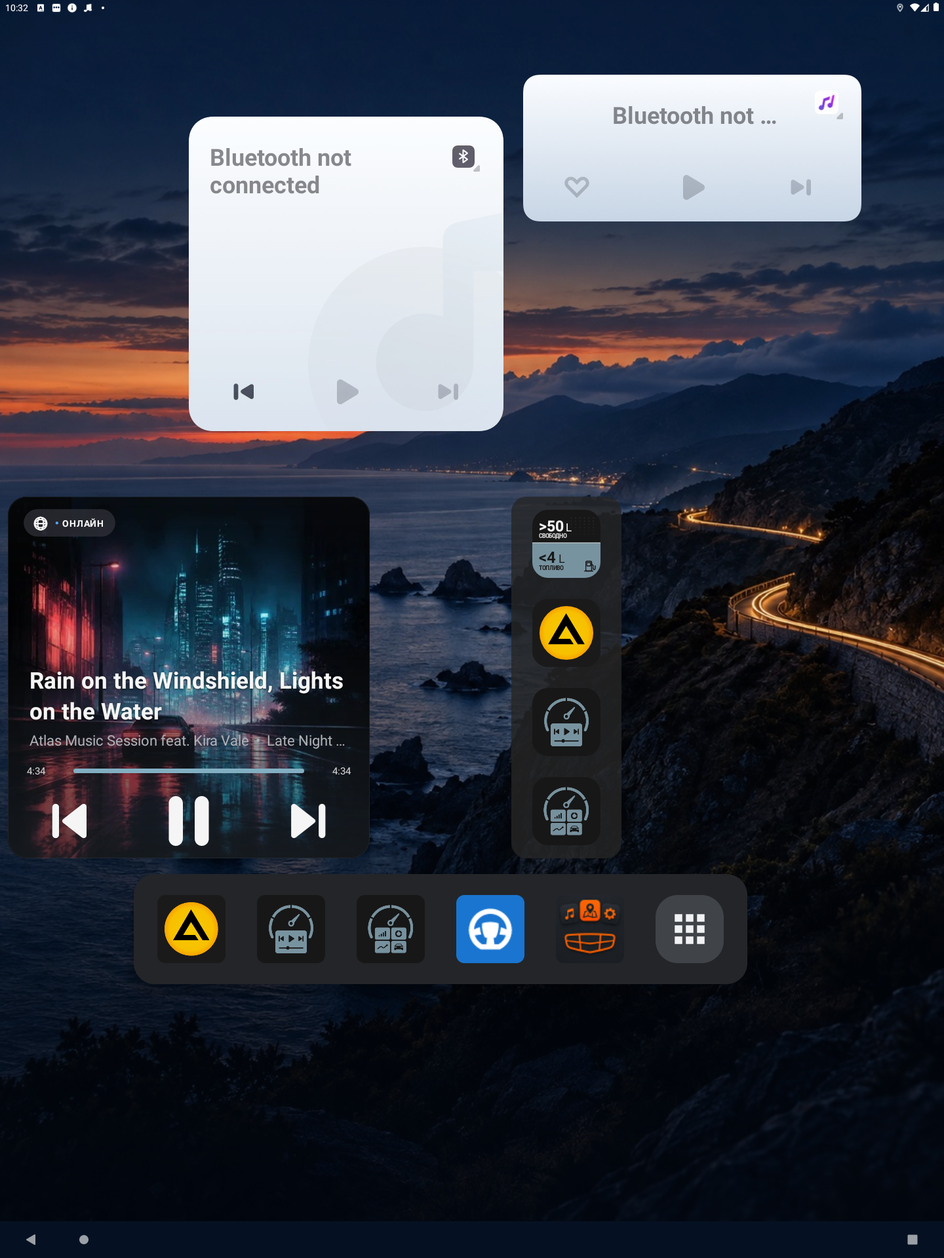
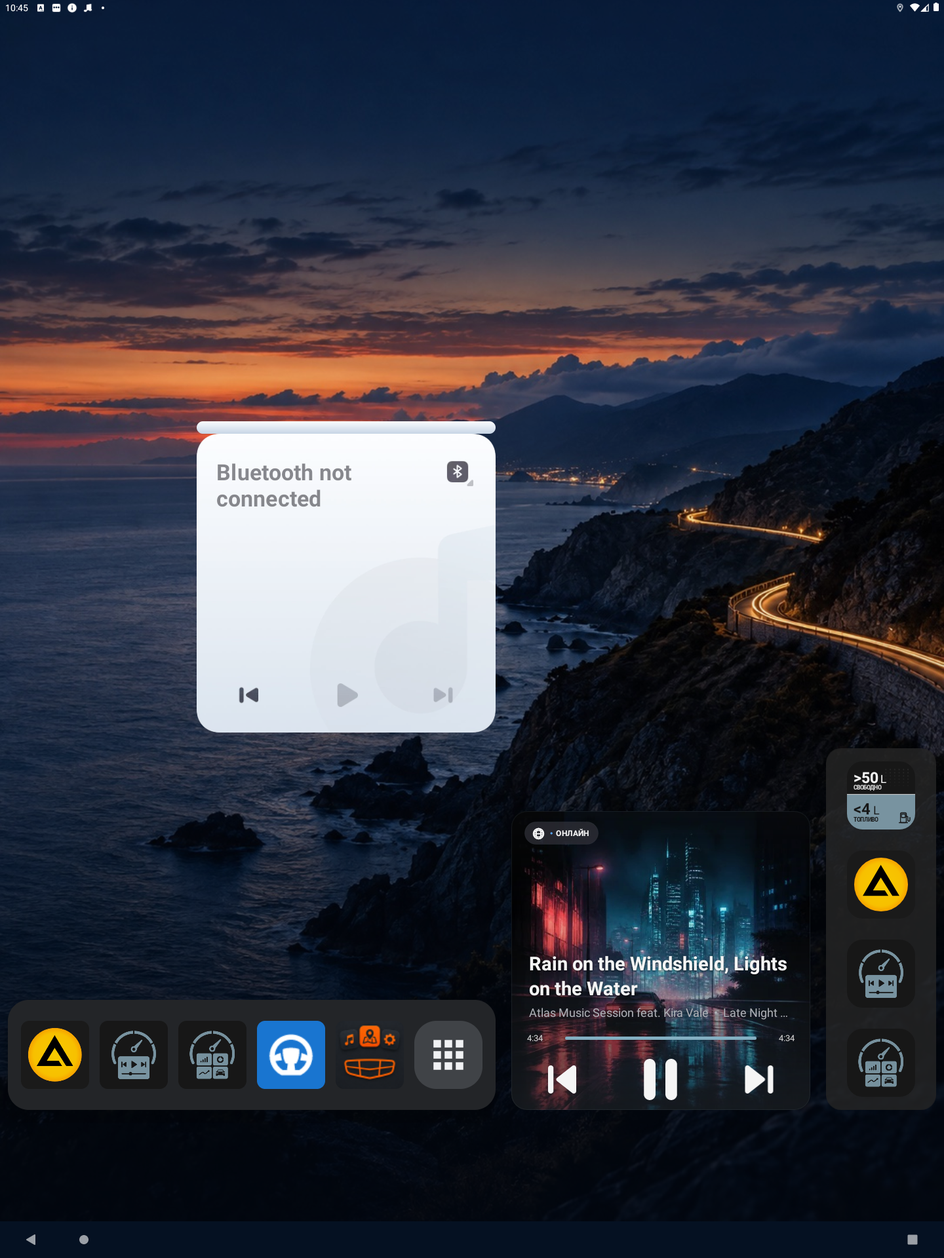
Scale fixed-size OEM widgets into their cells

diff --git a/app/src/main/java/com/mmwtl/atlaslauncher/HomeActivity.java b/app/src/main/java/com/mmwtl/atlaslauncher/HomeActivity.java
@@ -71,9 +71,11 @@ import org.json.JSONObject;
 import java.text.Collator;
 import java.util.ArrayList;
 import java.util.Collections;
+import java.util.HashMap;
 import java.util.Iterator;
 import java.util.List;
 import java.util.Locale;
+import java.util.Map;
 import java.util.concurrent.ExecutorService;
 import java.util.concurrent.Executors;
 import java.util.function.Consumer;
@@ -129,6 +131,7 @@ public final class HomeActivity extends Activity {
     private final List<AppEntry> apps = new ArrayList<>();
     private final List<String> favorites = new ArrayList<>();
     private final List<WidgetPlacement> widgets = new ArrayList<>();
+    private final Map<ComponentName, Point> fixedLayouts = new HashMap<>();
     private AppWidgetManager widgetManager;
     private AppWidgetHost widgetHost;
     private LinearLayout favoriteRow;
@@ -151,6 +154,7 @@ public final class HomeActivity extends Activity {
     private final Runnable renderWidgets = this::showWidgets;
     private final BroadcastReceiver packageReceiver = new BroadcastReceiver() {
         @Override public void onReceive(Context context, Intent intent) {
+            fixedLayouts.clear();
             loadApps();
             showFavorites();
             // An uninstalled provider's widget ID is gone; drop its stale view and placement.
@@ -162,7 +166,11 @@ public final class HomeActivity extends Activity {
     @Override public void onCreate(Bundle state) {
         super.onCreate(state);
         widgetManager = AppWidgetManager.getInstance(this);
-        widgetHost = new AppWidgetHost(this, HOST_ID);
+        widgetHost = new AppWidgetHost(this, HOST_ID) {
+            @Override protected AppWidgetHostView onCreateView(Context context, int id, AppWidgetProviderInfo info) {
+                return new FittedWidgetView(context);
+            }
+        };
         if (state != null) {
             editingWidgets = state.getBoolean("editingWidgets");
             pendingWidgetId = state.getInt("pendingWidgetId", AppWidgetManager.INVALID_APPWIDGET_ID);
@@ -1138,7 +1146,7 @@ public final class HomeActivity extends Activity {
     private void chooseWidget() {
         PackageManager pm = getPackageManager();
         List<AppWidgetProviderInfo> providers = widgetManager.getInstalledProviders();
-        providers.forEach(this::fitMediaWidget);
+        providers.forEach(this::fitFixedWidget);
         Collator collator = Collator.getInstance(Locale.getDefault());
         Collections.sort(providers, (a, b) -> collator.compare(String.valueOf(a.loadLabel(pm)), String.valueOf(b.loadLabel(pm))));
         LinearLayout content = new LinearLayout(this);
@@ -1434,7 +1442,7 @@ public final class HomeActivity extends Activity {
 
     private void finishAddingWidget() {
         if (pendingWidgetId == AppWidgetManager.INVALID_APPWIDGET_ID) return;
-        AppWidgetProviderInfo info = fitMediaWidget(widgetManager.getAppWidgetInfo(pendingWidgetId));
+        AppWidgetProviderInfo info = fitFixedWidget(widgetManager.getAppWidgetInfo(pendingWidgetId));
         if (info == null) { cancelPendingWidget(); return; }
         WidgetGrid grid = widgetGrid();
         if (grid == null) { widgetRow.post(this::finishAddingWidget); return; }
@@ -1494,7 +1502,7 @@ public final class HomeActivity extends Activity {
             WidgetPlacement placement = iterator.next();
             boolean clockWidget = placement.id == CLOCK_WIDGET_ID;
             boolean dockWidget = placement.id == DOCK_WIDGET_ID;
-            AppWidgetProviderInfo info = clockWidget || dockWidget ? null : fitMediaWidget(widgetManager.getAppWidgetInfo(placement.id));
+            AppWidgetProviderInfo info = clockWidget || dockWidget ? null : fitFixedWidget(widgetManager.getAppWidgetInfo(placement.id));
             if (!clockWidget && !dockWidget && info == null) {
                 widgetHost.deleteAppWidgetId(placement.id);
                 iterator.remove();
@@ -1560,7 +1568,6 @@ public final class HomeActivity extends Activity {
             } else {
                 AppWidgetHostView widgetView = widgetHost.createView(this, placement.id, info);
                 widgetView.setAppWidget(placement.id, info);
-                if (isMediaWidget(info)) widgetView.setPadding(0, 0, 0, 0);
                 hostView = widgetView;
             }
             FrameLayout container = isMediaWidget(info)
@@ -1569,9 +1576,7 @@ public final class HomeActivity extends Activity {
                     })
                     : new FrameLayout(this);
             hostView.setOnLongClickListener(v -> { setEditingWidgets(true); return true; });
-            FrameLayout.LayoutParams hostParams = isMediaWidget(info)
-                    ? new FrameLayout.LayoutParams(info.minWidth, info.minHeight, Gravity.CENTER)
-                    : new FrameLayout.LayoutParams(-1, -1);
+            FrameLayout.LayoutParams hostParams = new FrameLayout.LayoutParams(-1, -1);
             if (dockWidget) {
                 // Inset the dock like AppWidgetHostView insets regular widgets.
                 Rect inset = dockInset();
@@ -1600,20 +1605,29 @@ public final class HomeActivity extends Activity {
     }
 
     /**
-     * The OneOS media widgets are drawn for Launcher3 without host padding, and their layouts have a fixed
-     * pixel size larger than the declared minimum; use that size so the rounded card is never cut.
+     * OneOS widgets (media, phone, gallery) are drawn for Launcher3 as fixed-pixel cards, larger than their
+     * declared minimum. Returns that size, or null for an ordinary resizable layout.
      */
-    private AppWidgetProviderInfo fitMediaWidget(AppWidgetProviderInfo info) {
-        if (!isMediaWidget(info)) return info;
-        try {
-            Context context = createPackageContext(MEDIA_WIDGET_PACKAGE, 0);
-            ViewGroup.LayoutParams params = LayoutInflater.from(context)
-                    .inflate(info.initialLayout, new FrameLayout(context), false).getLayoutParams();
-            if (params.width > 0 && params.height > 0) {
-                info.minWidth = info.minResizeWidth = params.width;
-                info.minHeight = info.minResizeHeight = params.height;
-            }
-        } catch (PackageManager.NameNotFoundException | RuntimeException ignored) { }
+    private Point fixedLayoutPx(AppWidgetProviderInfo info) {
+        Point size = fixedLayouts.computeIfAbsent(info.provider, provider -> {
+            try {
+                Context context = createPackageContext(provider.getPackageName(), 0);
+                ViewGroup.LayoutParams params = LayoutInflater.from(context)
+                        .inflate(info.initialLayout, new FrameLayout(context), false).getLayoutParams();
+                if (params.width > 0 && params.height > 0) return new Point(params.width, params.height);
+            } catch (PackageManager.NameNotFoundException | RuntimeException ignored) { }
+            return new Point();
+        });
+        return size.x > 0 ? size : null;
+    }
+
+    /** New fixed-size widgets get cells for the whole card; they may still be resized down to the declared minimum. */
+    private AppWidgetProviderInfo fitFixedWidget(AppWidgetProviderInfo info) {
+        Point size = info == null ? null : fixedLayoutPx(info);
+        if (size != null) {
+            info.minWidth = size.x;
+            info.minHeight = size.y;
+        }
         return info;
     }
 
@@ -1621,15 +1635,14 @@ public final class HomeActivity extends Activity {
         Resources resources;
         try { resources = getPackageManager().getResourcesForApplication(MEDIA_WIDGET_PACKAGE); }
         catch (PackageManager.NameNotFoundException e) { return false; }
-        int[] location = new int[2];
+        Rect bounds = new Rect();
         // The media widget sends its source-switch broadcast from these views.
         for (String name : new String[] {"rl_swicth_area", "iv_mediaWidget_switch", "iv_marker"}) {
             int id = resources.getIdentifier(name, "id", MEDIA_WIDGET_PACKAGE);
             View view = id == 0 ? null : widget.findViewById(id);
-            if (view == null || !view.isShown()) continue;
-            view.getLocationOnScreen(location);
-            if (event.getRawX() >= location[0] && event.getRawX() < location[0] + view.getWidth()
-                    && event.getRawY() >= location[1] && event.getRawY() < location[1] + view.getHeight()) return true;
+            // Visible bounds include the scale applied by FittedWidgetView; HOME fills the screen.
+            if (view != null && view.isShown() && view.getGlobalVisibleRect(bounds)
+                    && bounds.contains((int) event.getRawX(), (int) event.getRawY())) return true;
         }
         return false;
     }
@@ -1667,16 +1680,20 @@ public final class HomeActivity extends Activity {
         popup.setBackgroundDrawable(new ColorDrawable(Color.TRANSPARENT));
         popup.setOutsideTouchable(true);
         popup.setFocusable(true);
-        // Like Launcher3, anchor the list to the card itself, centred when their widths differ.
+        // Like Launcher3, anchor the list to the card itself; scale it to the card's (possibly scaled) width.
         View card = widget instanceof ViewGroup && ((ViewGroup) widget).getChildCount() > 0
                 ? ((ViewGroup) widget).getChildAt(0) : widget;
         content.measure(View.MeasureSpec.UNSPECIFIED, View.MeasureSpec.UNSPECIFIED);
-        int[] location = new int[2];
-        card.getLocationOnScreen(location);
-        // Bottom gravity keeps the list right above the card while its rows load.
-        popup.showAtLocation(widgetRow, Gravity.BOTTOM | Gravity.START,
-                location[0] + (card.getWidth() - content.getMeasuredWidth()) / 2,
-                getWindow().getDecorView().getHeight() - location[1]);
+        Rect bounds = new Rect();
+        card.getGlobalVisibleRect(bounds);
+        float scale = (float) bounds.width() / content.getMeasuredWidth();
+        content.setScaleX(scale);
+        content.setScaleY(scale);
+        content.setPivotX(0);
+        // The list grows upwards while its rows load; keep its bottom on the card.
+        content.addOnLayoutChangeListener((v, l, t, r, b, ol, ot, or, ob) -> v.setPivotY(b - t));
+        popup.showAtLocation(widgetRow, Gravity.BOTTOM | Gravity.START, bounds.left,
+                getWindow().getDecorView().getHeight() - bounds.top);
         sourceListPopup = popup;
     }
 
@@ -1885,7 +1902,8 @@ public final class HomeActivity extends Activity {
     }
 
     private Point widgetPaddingDp(AppWidgetProviderInfo info) {
-        if (isMediaWidget(info)) return new Point(0, 0);
+        // A fixed-size layout is scaled into the padded area, so its own size alone picks the cells.
+        if (fixedLayoutPx(info) != null) return new Point(0, 0);
         Rect padding = AppWidgetHostView.getDefaultPaddingForWidget(this, info.provider, null);
         return new Point(pxToDp(padding.left + padding.right), pxToDp(padding.top + padding.bottom));
     }
@@ -2148,6 +2166,31 @@ public final class HomeActivity extends Activity {
 
         int nearestSpan(int size, int cell, int count) {
             return Math.max(1, Math.min(count, Math.round((float) size / cell)));
+        }
+    }
+
+    /** Scales a fixed-size widget layout into the padded area instead of cropping it, keeping its proportions. */
+    private static final class FittedWidgetView extends AppWidgetHostView {
+        FittedWidgetView(Context context) {
+            super(context);
+        }
+
+        @Override protected void onLayout(boolean changed, int left, int top, int right, int bottom) {
+            super.onLayout(changed, left, top, right, bottom);
+            View content = getChildCount() > 0 ? getChildAt(0) : null;
+            ViewGroup.LayoutParams params = content == null ? null : content.getLayoutParams();
+            if (params == null || params.width <= 0 || params.height <= 0) return;
+            int width = getWidth() - getPaddingLeft() - getPaddingRight();
+            int height = getHeight() - getPaddingTop() - getPaddingBottom();
+            float scale = Math.min((float) width / params.width, (float) height / params.height);
+            content.setPivotX(0);
+            content.setPivotY(0);
+            content.setScaleX(scale);
+            content.setScaleY(scale);
+            // The host lays the card out centred; move it into the padded area. The top edge stays in line
+            // with neighbouring widgets, any spare height goes below.
+            content.setTranslationX(getPaddingLeft() - content.getLeft() + (width - params.width * scale) / 2);
+            content.setTranslationY(getPaddingTop() - content.getTop());
         }
     }
 

diff --git a/qa/media-source-list/report.md b/qa/media-source-list/report.md
@@ -10,9 +10,9 @@
 
 ## Размер и скругление карточки
 
-Launcher3 держит виджеты без отступов хоста (`LauncherAppWidgetHostView.setPadding(0, 0, 0, 0)`), а корень разметки медиавиджетов имеет фиксированный размер в пикселях, больше объявленного минимума: `SourceWidgetProvider` 516×224 при `minWidth/minHeight` 392×184, `SourceBigWidgetProvider` 480×480 при 392×392. Скругление нарисовано в фоне карточки (`card_bg.png`, `big_widge_bg.webp`), Launcher3 углы не обрезает (`mEnforcedCornerRadius` всегда 0). Atlas брал объявленный минимум и стандартные отступы Android, поэтому карточка обрезалась справа/снизу вместе со скруглениями, а список казался шире карточки.
+Launcher3 держит виджеты без отступов хоста (`LauncherAppWidgetHostView.setPadding(0, 0, 0, 0)`), а корень разметки штатных виджетов OneOS имеет фиксированный размер в пикселях, больше объявленного минимума: `SourceWidgetProvider` 516×224 при `minWidth/minHeight` 392×184, `SourceBigWidgetProvider` 480×480 при 392×392. Скругление нарисовано в фоне карточки (`card_bg.png`, `big_widge_bg.webp`), Launcher3 углы не обрезает (`mEnforcedCornerRadius` всегда 0). Хост центрирует такой корень, поэтому в Atlas со стандартными отступами (на ГУ и эмуляторе 12/4/12/20 dp) карточка обрезалась по краям вместе со скруглениями, а список казался шире карточки.
 
-Теперь для пакета `com.geely.mediawidget` Atlas не добавляет отступы, минимальный размер (каталог, добавление, изменение размера) берёт из корня `initialLayout`, а сам хост — ровно размером карточки по центру ячейки. Список источников выравнивается по карточке: низ — по её верху, по горизонтали — по центру.
+Теперь для любого виджета, у которого корень `initialLayout` имеет фиксированный размер (в том числе телефон и галерея OneOS), `FittedWidgetView` равномерно масштабирует карточку в область ячейки за вычетом обычных отступов: верх и боковые края совпадают с соседними виджетами, свободная высота остаётся снизу. Ячейки для нового виджета считаются по размеру карточки без отступов (большой медиа 5×5, масштаб 0,95; малый 6×3, масштаб 1,07); уменьшать можно до объявленного минимума. Чтобы прочитать разметку чужого пакета, в `<queries>` добавлены пакеты с действием `APPWIDGET_UPDATE`. Список источников масштабируется до ширины карточки и стоит вплотную над ней.
 
 ## Проверка
 
@@ -26,8 +26,8 @@ Launcher3 держит виджеты без отступов хоста (`Launc
 | Тап внутри окна | Закрылось |
 | Тап по другой части виджета | Окно не открывается |
 | HOME, долгое нажатие (режим редактирования) | Закрывается / не открывается |
-| Большой виджет (`SourceBigWidgetProvider`) | Карточка 480×480 целиком, со скруглёнными углами; список той же ширины встаёт ровно над ней ([снимок](emulator-cards.png)) |
-| Малый виджет (`SourceWidgetProvider`) | В каталоге 6×3 (было 5×3), карточка 516×224 целиком по центру ячейки 576×288; список 480 px по центру над ней (x = левый край карточки + 18) |
+| Большой виджет (`SourceBigWidgetProvider`) в ячейке 5×5 | Карточка целиком, 456×456, все углы скруглены, отступы 12/4 как у соседнего Atlas Media Widget; список 456 px ровно над ней ([снимок](emulator-cards.png)) |
+| Малый виджет (`SourceWidgetProvider`) | В каталоге 6×3 (было 5×3). Вид в ячейке после перехода на масштабирование отдельно не снимался |
 | Подписи в каталоге | У приложения пустое имя; показывается имя пакета, как до добавления `<queries>` |
 | force-stop и повторный запуск | ID `SourceListWidgetProvider` сохранился и переиспользуется, второй не создаётся |
 
@@ -38,6 +38,7 @@ Launcher3 держит виджеты без отступов хоста (`Launc
 - На эмуляторе нет медиасервиса Geely: у виджета нет обработчиков нажатий, а список пуст (видна только белая полоса отступов). Поэтому код временно проверялся с срабатыванием на `ACTION_DOWN`; финальный вариант проверен тапами, так как касания доходят до контейнера через долгое нажатие `AppWidgetHostView`. Реальный вид списка, выбор источника и его закрытие нужно проверить на ГУ.
 - Высота окна берётся из содержимого, а не из `height`, который виджет передаёт Launcher3.
 - Если над карточкой мало места, список прижимается к верхнему краю экрана и перекрывает карточку, как `showAsDropDown` в Launcher3. Размещайте медиавиджет ниже.
-- Уже размещённые медиавиджеты при первом показе увеличиваются до размера карточки, если рядом есть место.
+- Телефон и галерея OneOS не проверены: их нет на эмуляторе. Вписывание сработает, если корень их `initialLayout` имеет фиксированный размер.
+- Фон с нарисованными углами при масштабе ≠ 1 интерполируется; на ГУ при 160 dpi возможна лёгкая мягкость краёв.
 - Диалог разрешения на привязку не проверялся; после разрешения список открывается следующим нажатием.
 - Launcher3 по-прежнему получает `media_source_show`; без его окна он запрос отбрасывает (`window token == null`), но если Launcher3 жив в фоне, он может показать окно у себя — невидимо, пока открыт Atlas.

diff --git a/README.md b/README.md
@@ -50,6 +50,8 @@ ANDROID_USER_HOME="$PWD/.android-user" ./gradlew :app:assembleRelease -x :app:li
 
 Интерфейс рассчитан только на портретный экран ГУ. Режим редактирования открывается долгим нажатием на свободное место, виджет или док. Часы можно добавить в этом режиме через `＋` → `Часы`. Док приложений добавляется там же как встроенный виджет. Окно `＋` показывает виджеты карточками с миниатюрой, приложением и минимальным размером в ячейках. Миниатюра берётся из `previewImage` виджета, а если его нет — используется значок; превью загружаются в фоне. Для часов и дока показывается собственный предпросмотр. [Снимок окна виджетов](qa/widget-previews/report.md). При обновлении прежний видимый док переносится в сетку автоматически; если он был скрыт, его можно добавить вручную. Док можно передвинуть над нижней системной панелью, изменить его размер или удалить и позже добавить снова. При удалении список закреплённых приложений сохраняется. Сохранённые виджеты показываются при обычном запуске. Область размещения заканчивается в 150 физических пикселях от нижнего края Activity, над климатической панелью; целые строки сетки прижаты к этой границе, а остаток высоты уходит наверх. Короткое нажатие на свободное место завершает редактирование. При перемещении и изменении размера под виджетом показывается синяя рамка места и размера, которые он займёт после отпускания; красная рамка на исходном месте означает, что места нет и виджет вернётся назад. Кнопки добавления, завершения и общая шестерёнка настроек видны только в этом режиме. Долгое нажатие на док, как и на любой другой виджет, включает режим редактирования; настройки дока открываются шестерёнкой самого виджета в этом режиме. В одном окне доступны состав и порядок приложений, кнопка «Все приложения», её действие, размер значков и подписи дока; закрепление приложений выполняется там же. Отключённое или удалённое приложение не пропадает из списка закреплённых автоматически: док его не показывает, а в настройках дока оно помечено «недоступно» и убирается кнопкой ×. После повторного включения или установки значок возвращается в док. При первом показе старые координаты привязываются к ближайшим свободным ячейкам сетки; размеры также округляются до ячеек. Живой карты и навигации в этой версии нет. Activity фиксирует портретную ориентацию. Точную позицию над OEM-панелью нужно проверить на реальном ГУ. [Снимки прежнего оформления](qa/scenic-preview/home.png) и [отчёт прежней функциональной проверки на эмуляторе](qa/freeform-widgets/report.md).
 
+Штатные виджеты OneOS (медиа, телефон, галерея) нарисованы под Launcher3 карточками фиксированного размера. Atlas не обрезает их, а равномерно масштабирует в ячейку с обычными отступами, чтобы края совпадали с соседними виджетами; свободная высота остаётся снизу.
+
 Штатный медиавиджет OneOS (`com.geely.mediawidget`) по нажатию на значок источника просит Launcher3 показать список источников, поэтому на другом HOME это нажатие ничего не делает. Atlas замечает нажатие на этот значок сам и показывает над виджетом тот же список — виджет `SourceListWidgetProvider` во всплывающем окне, как в Launcher3. Для списка Atlas привязывает отдельный скрытый ID виджета; при первом нажатии Android может запросить разрешение на привязку, после него список открывается следующим нажатием. Список закрывается касанием вне его, нажатием внутри (выбор источника), кнопкой HOME и в режиме редактирования. [Проверка](qa/media-source-list/report.md).
 
 Общая шестерёнка в режиме редактирования открывает одну страницу настроек без вкладок: карточки «Фон рабочего стола» и «Система». Док, часы и другие виджеты настраиваются только шестерёнкой на самом виджете в режиме редактирования; в общих настройках их параметров нет. Окна закрываются кнопками «Готово», × или системной кнопкой «Назад»; нажатие на затемнённый фон их не закрывает. Содержимое прокручивается, заголовок и кнопка «Готово» остаются на месте. Открытое окно восстанавливается при пересоздании Activity. [Снимки и проверка новых окон](qa/focused-settings/report.md).
